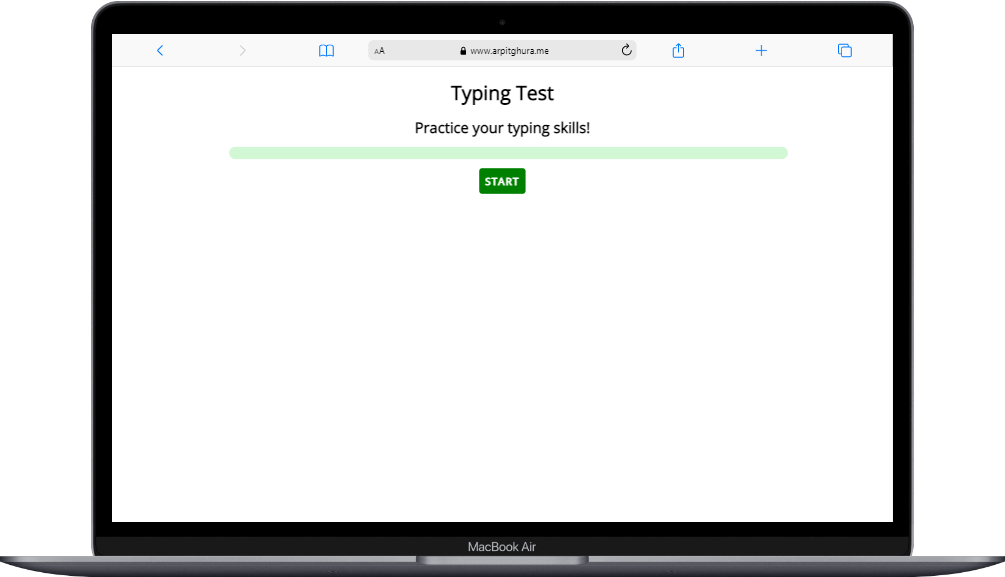
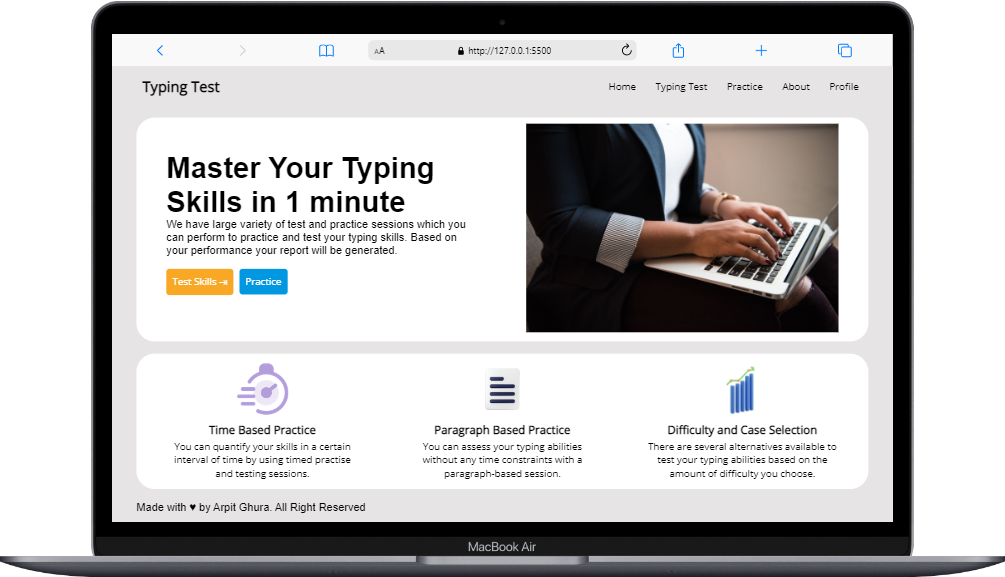
Added homepage and updated existing homepage to practice page and updated readme and other files

diff --git a/index.html b/index.html
@@ -1,63 +1,65 @@
 <!DOCTYPE html>
 <html lang="en">
-
 <head>
     <meta charset="UTF-8">
     <meta http-equiv="X-UA-Compatible" content="IE=edge">
     <meta name="viewport" content="width=device-width, initial-scale=1.0">
-    <link rel="stylesheet" href="style.css">
+    <title>Typing Test : Test and practice your typing skills</title>
+    <link rel="stylesheet" href="index.css">
     <link rel="preconnect" href="https://fonts.googleapis.com">
     <link rel="preconnect" href="https://fonts.gstatic.com" crossorigin>
     <link href="https://fonts.googleapis.com/css2?family=Open+Sans&display=swap" rel="stylesheet">
-    <title>Typing Test - Practice your typing skills at ease</title>
 </head>
-
 <body>
-    <div class="container">
-        <h1 class="heading">Typing Test</h1>
-        <div class="userDetails">
-            <h2 id="greetUser"></h2>
+    <nav>
+        <div class="navbar">
+            <div class="brand">
+                <h1 class="brand-name">Typing Test</h1>
+            </div>
+            <div class="navigation">
+                <ul class="main-menu">
+                    <li class="nav-item"><a href="#" class="nav-item-link">Home</a></li>
+                    <li class="nav-item"><a href="#" class="nav-item-link">Typing Test</a></li>
+                    <li class="nav-item"><a href="#" class="nav-item-link">Practice</a></li>
+                    <li class="nav-item"><a href="#" class="nav-item-link">About</a></li>
+                    <li class="nav-item"><a href="#" class="nav-item-link">Profile</a></li>
+                </ul>
+            </div>
         </div>
-        <h2 class="subtitle">Practice your typing skills!</h2>
-        <div class="dynamic-text-box">
-            <p id="quote"></p>
-        </div>
-        <div class="start-btn">
-            <button id="startBtn">START</button>
-            <button id="resetBtn">RESET</button>
-        </div>
-        <div id="messages">
-            <p id="message"></p><br>
-            <p id="speed"></p>
-        </div>
-    </div>
-    <div class="user-input-box" id="userInputBox">
-        <input type="text" name="user-input" id="userInput">
-    </div>
+    </nav>
 
-    <div class="nameModal">
-        <span class="prompt">Enter Your Username: </span>
-        <input type="text" name="userName" id="userName">
-        <input type="submit" value="Save and Go" id="nameSubmitBtn">
-    </div>
-
-    <div class="history">
-        <h2>History</h2>
-        <div class="history-table">
-            <table>
-                <thead>
-                    <tr>
-                        <th>Username</th>
-                        <th>Speed (wpm)</th>
-                        <th>Time Taken (sec)</th>
-                    </tr>
-                </thead>
-                <tbody id="historyTableBody">
-                </tbody>
-            </table>
+    <section id="hero">
+        <div class="left-section">
+            <h1>Master Your Typing Skills in 1 minute</h1>
+            <p class="subtitle">We have large variety of test and practice sessions which you can perform to practice and test your typing skills. Based on your performance your report will be generated.</p>
+            <a href="/test.html" class="heroBtn test"> Test Skills <span>&RightArrowBar;</span></a>
+            <a href="/practice.html" class="heroBtn practice"> Practice </a>
         </div>
-    </div>
-    <script src="index.js"></script>
+        <div class="right-section">
+            <img src="./assets/images/heroImage.jpg" alt="Women Typing on the computer. Image by christina morillo">
+        </div>
+    </section>
+
+    <section id="features">
+        <div class="feature">
+            <img src="./assets/images/timer.png" alt="Time Based Practice Sessions">
+            <h3>Time Based Practice</h3>
+            <p>You can quantify your skills in a certain interval of time by using timed practise and testing sessions.</p>
+        </div>
+        <div class="feature">
+            <img src="./assets/images/file.png" alt="Paragraph Based Practice Sessions">
+            <h3>Paragraph Based Practice</h3>
+            <p>You can assess your typing abilities without any time constraints with a paragraph-based session. </p>
+        </div>
+        <div class="feature">
+            <img src="./assets/images/growth-graph.png" alt="Difficulty and Case Selection Sessions">
+            <h3>Difficulty and Case Selection</h3>
+            <p>There are several alternatives available to test your typing abilities based on the amount of difficulty you choose.</p>
+        </div>
+    </section>
+
+    <footer>
+        <p>Made with &hearts; by Arpit Ghura. All Right Reserved</p>
+    </footer>
 </body>
-
 </html>

diff --git a/index.css b/index.css
@@ -1,0 +1,115 @@
+*{
+    margin: 0;
+    padding: 0;
+    font-family: 'Open Sans', sans-serif;
+}
+body{
+    background-color: #E6E4E4;
+}
+.navbar{
+    display: flex;
+    justify-content: space-between;
+    flex-wrap: wrap;
+    padding: 15px 40px;
+    align-items: center;
+}
+.brand-name{
+    margin-left: 10px;
+}
+ul.main-menu{
+    list-style: none;
+    display: flex;
+    justify-content: space-evenly;
+    flex-wrap: wrap;
+}
+li.nav-item{
+    margin: 5px;
+}
+.nav-item-link{
+    color: black;
+    text-decoration: none;
+    width: 100%;
+    padding: 10px;
+    transition: all 0.2s ease;
+    border: 1px solid transparent;
+}
+.nav-item-link:hover{
+    border: 1px solid black;
+    border-radius: 10px;
+    background-color: antiquewhite;
+}
+#hero,#features{
+    display: flex;
+    justify-content: space-between;
+    align-items: center;
+    flex-wrap: wrap;
+    flex-direction: row;
+    background-color: white;
+    border-radius: 30px;
+    margin: 20px 40px;
+    padding: 10px;
+    height:max-content;
+}
+.left-section,.right-section {
+    width: 40vw;
+    margin: auto ;
+}
+.left-section h1{
+    font-family:Geneva, sans-serif;
+    font-size: xxx-large; 
+    font-weight: bolder;
+}
+.subtitle{
+    font-family: Geneva, sans-serif;
+    font-size:large;
+}
+.right-section img{
+    width: 100%;
+    height: 100%;
+    background-position: center;
+    background-size: contain;
+}
+.heroBtn{
+    padding: 10px;
+    margin: 20px 0px;
+    color: white;
+    text-decoration: none;
+    border-radius: 5px;
+    display: inline-block;
+    transition: background .3s ease;
+    margin-right: 5px;
+}
+.test{
+    background-color: #F9A826;
+}
+.practice{
+    background-color: #0198E1;
+}
+.test:hover{
+    background-color: #f9a826d5;
+}
+.practice:hover{
+    background-color: #0196e1c7;
+}
+
+#features{
+    justify-content: space-around;
+    text-align: center;
+}
+.feature{
+    width: 25vw;
+}
+.feature img{
+    height: 96px;
+    width: 96px;
+}
+.feature p{
+    padding: 5px;
+}
+
+
+footer p{
+    font-family: Geneva, sans-serif;
+    font-size:large;
+    margin: 10px 40px;
+}

diff --git a/practice.html b/practice.html
@@ -1,0 +1,63 @@
+<!DOCTYPE html>
+<html lang="en">
+
+<head>
+    <meta charset="UTF-8">
+    <meta http-equiv="X-UA-Compatible" content="IE=edge">
+    <meta name="viewport" content="width=device-width, initial-scale=1.0">
+    <link rel="stylesheet" href="practice.css">
+    <link rel="preconnect" href="https://fonts.googleapis.com">
+    <link rel="preconnect" href="https://fonts.gstatic.com" crossorigin>
+    <link href="https://fonts.googleapis.com/css2?family=Open+Sans&display=swap" rel="stylesheet">
+    <title>Typing Test - Practice your typing skills at ease</title>
+</head>
+
+<body>
+    <div class="container">
+        <h1 class="heading">Typing Test</h1>
+        <div class="userDetails">
+            <h2 id="greetUser"></h2>
+        </div>
+        <h2 class="subtitle">Practice your typing skills!</h2>
+        <div class="dynamic-text-box">
+            <p id="quote"></p>
+        </div>
+        <div class="start-btn">
+            <button id="startBtn">START</button>
+            <button id="resetBtn">RESET</button>
+        </div>
+        <div id="messages">
+            <p id="message"></p><br>
+            <p id="speed"></p>
+        </div>
+    </div>
+    <div class="user-input-box" id="userInputBox">
+        <input type="text" name="user-input" id="userInput">
+    </div>
+
+    <div class="nameModal">
+        <span class="prompt">Enter Your Username: </span>
+        <input type="text" name="userName" id="userName">
+        <input type="submit" value="Save and Go" id="nameSubmitBtn">
+    </div>
+
+    <div class="history">
+        <h2>History</h2>
+        <div class="history-table">
+            <table>
+                <thead>
+                    <tr>
+                        <th>Username</th>
+                        <th>Speed (wpm)</th>
+                        <th>Time Taken (sec)</th>
+                    </tr>
+                </thead>
+                <tbody id="historyTableBody">
+                </tbody>
+            </table>
+        </div>
+    </div>
+    <script src="index.js"></script>
+</body>
+
+</html>

diff --git a/README.md b/README.md
@@ -6,7 +6,15 @@ On the App, there are automatically generating words and sentences so that there
 
 The Web App can be accessible from [https://www.arpitghura.me/Typing-test/](https://www.arpitghura.me/Typing-test/)
 
-Technology Used to create the App : 
+## Features 
+<ul>
+    <li>Time Based Test and Practice Sessions</li>
+    <li>Paragraph Based Test and Practice Sessions</li>
+    <li>Change Difficulty Level as per you.</li>
+    <li>History Saver with Username</li>
+</ul>
+
+## Tech Stack : 
 
 1. HTML5
 
@@ -16,14 +24,18 @@ Technology Used to create the App :
 
 > Test your Typing skills NOW!
 
-### Here are some Screenshots of the App: 
+## Here are some Screenshots of the App: 
 
 Home Page:
 
 <img src="./assets/Homepage.png">
 
-During Typing:
+Practice Page:
 
-<img src="./assets/During-typing.png">
+<img src="./assets/PracticePage.png">
+
+Report Generates on Completion:
+
+<img src="./assets/Report.png">
 
 ### Give a star if you liked this!
